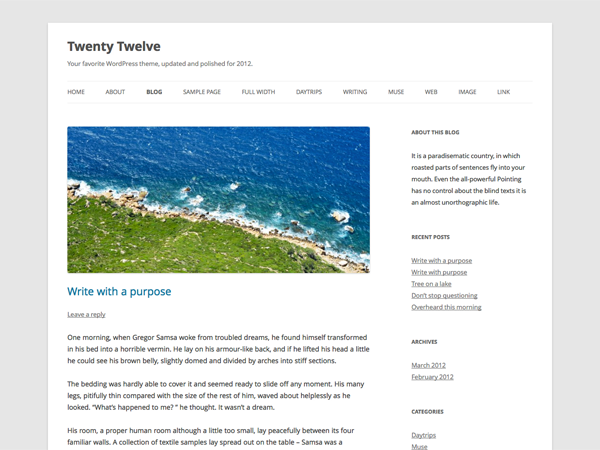
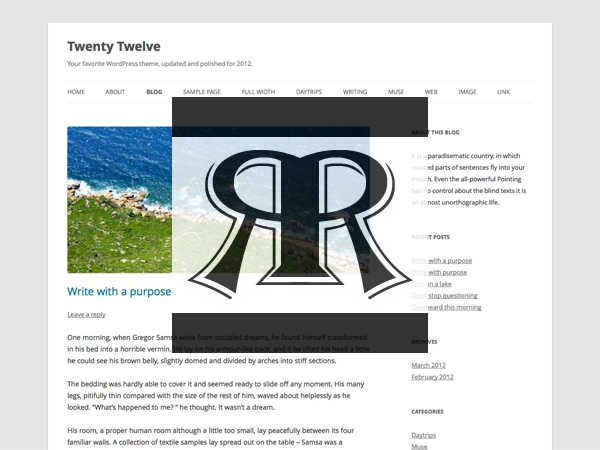
verion 2.0 of 1.1
updated functions to remove generators
updated header to display image
added custom style sheet, style2.css
updated screenshot to show a difference between stock and custom
updated misc margins/spacing in style.css
updated theme info in style.css

Changed region(s): [[0.27, 0.2178, 0.72, 0.8089], [0.69, 0.3422, 0.72, 0.4667], [0.69, 0.4978, 0.72, 0.5289]]

diff --git a/style.css b/style.css
@@ -1,18 +1,23 @@
 /*
-Theme Name: Twenty Twelve
-Theme URI: http://wordpress.org/extend/themes/twentytwelve
-Author: the WordPress team
-Author URI: http://wordpress.org/
+Theme Name: Twenty Twelve 2.0
+Theme URI: https://github.com/rricketts/twenty-twelve-2.0
+Author: Richard Ricketts
+Author URI: http://www.rricketts.com
 Description: The 2012 theme for WordPress is a fully responsive theme that looks great on any device. Features include a front page template with its own widgets, an optional display font, styling for post formats on both index and single views, and an optional no-sidebar page template. Make it yours with a custom menu, header image, and background.
-Version: 1.1
+Version: 2.0
 License: GNU General Public License v2 or later
 License URI: http://www.gnu.org/licenses/gpl-2.0.html
 Tags: light, gray, white, one-column, two-columns, right-sidebar, flexible-width, custom-background, custom-header, custom-menu, editor-style, featured-images, flexible-header, full-width-template, microformats, post-formats, rtl-language-support, sticky-post, theme-options, translation-ready
-Text Domain: twentytwelve
+Text Domain: twentytwelve2
 
 This theme, like WordPress, is licensed under the GPL.
 Use it to make something cool, have fun, and share what you've learned with others.
 */
+
+/* import new custom css */
+
+@import url("style2.css");
+
 
 /* =Notes
 --------------------------------------------------------------
@@ -525,7 +530,7 @@ a:hover {
 /* Page structure */
 .site {
 	padding: 0 24px;
-	padding: 0 1.714285714rem;
+	/*padding: 0 1.714285714rem;*/
 	background-color: #fff;
 }
 .site-content {
@@ -1430,13 +1435,14 @@ img#wpstats {
 	}
 	.site {
 		margin: 0 auto;
-		max-width: 960px;
-		max-width: 68.571428571rem;
+		max-width: 1024px;
+		/*max-width: 68.571428571rem;*/
 		overflow: hidden;
 	}
 	.site-content {
 		float: left;
-		width: 65.104166667%;
+		width: 70%;
+		/*width: 65.104166667%;*/
 	}
 	body.template-front-page .site-content,
 	body.single-attachment .site-content,
@@ -1589,10 +1595,10 @@ img#wpstats {
 		background-color: #e6e6e6;
 	}
 	body .site {
-		padding: 0 40px;
-		padding: 0 2.857142857rem;
-		margin-top: 48px;
-		margin-top: 3.428571429rem;
+		/*padding: 0 40px;*/
+		/*padding: 0 2.857142857rem;*/
+		/*margin-top: 48px;*/
+		/*margin-top: 3.428571429rem;*/
 		margin-bottom: 48px;
 		margin-bottom: 3.428571429rem;
 		box-shadow: 0 2px 6px rgba(100, 100, 100, 0.3);

diff --git a/style2.css b/style2.css
@@ -1,0 +1,9 @@
+#header-container {
+
+
+}
+
+#header-container img {
+width: 1072px;
+margin-left:-24px;
+}

diff --git a/header.php b/header.php
@@ -33,22 +33,5 @@
 
 <body <?php body_class(); ?>>
 <div id="page" class="hfeed site">
-	<header id="masthead" class="site-header" role="banner">
-		<hgroup>
-			<h1 class="site-title"><a href="<?php echo esc_url( home_url( '/' ) ); ?>" title="<?php echo esc_attr( get_bloginfo( 'name', 'display' ) ); ?>" rel="home"><?php bloginfo( 'name' ); ?></a></h1>
-			<h2 class="site-description"><?php bloginfo( 'description' ); ?></h2>
-		</hgroup>
-
-		<nav id="site-navigation" class="main-navigation" role="navigation">
-			<h3 class="menu-toggle"><?php _e( 'Menu', 'twentytwelve' ); ?></h3>
-			<a class="assistive-text" href="#content" title="<?php esc_attr_e( 'Skip to content', 'twentytwelve' ); ?>"><?php _e( 'Skip to content', 'twentytwelve' ); ?></a>
-			<?php wp_nav_menu( array( 'theme_location' => 'primary', 'menu_class' => 'nav-menu' ) ); ?>
-		</nav><!-- #site-navigation -->
-
-		<?php $header_image = get_header_image();
-		if ( ! empty( $header_image ) ) : ?>
-			<a href="<?php echo esc_url( home_url( '/' ) ); ?>"><img src="<?php echo esc_url( $header_image ); ?>" class="header-image" width="<?php echo get_custom_header()->width; ?>" height="<?php echo get_custom_header()->height; ?>" alt="" /></a>
-		<?php endif; ?>
-	</header><!-- #masthead -->
-
-	<div id="main" class="wrapper">
+<div id="header-container"><a href="/" title="Return to the Home Page"><img src="/wp-content/uploads/2012/11/header.jpg"></a></div>
+<div id="main" class="wrapper">

diff --git a/functions.php b/functions.php
@@ -1,4 +1,18 @@
 <?php
+
+// Remove generators
+remove_action('wp_head','wp_generator');
+remove_action('wp_head','rsd_link');
+remove_action('wp_head','wlwmanifest_link');
+//remove_action('wp_head','feed_links_extra',3);
+//remove_action('wp_head','feed_links',2);
+//remove_action('wp_head','index_rel_link');
+//remove_action('wp_head','parent_post_rel_link',10,0);
+//remove_action('wp_head','start_post_rel_link',10,0);
+//remove_action('wp_head','adjacent_posts_rel_link',10,0);
+//remove_action('wp_head','adjacent_posts_rel_link_wp_head',10,0);
+
+
 /**
  * Twenty Twelve functions and definitions.
  *
